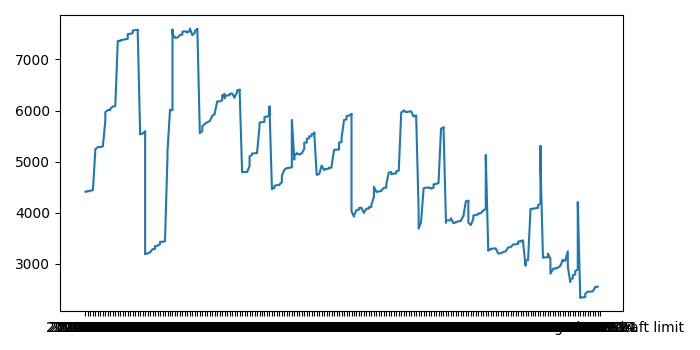
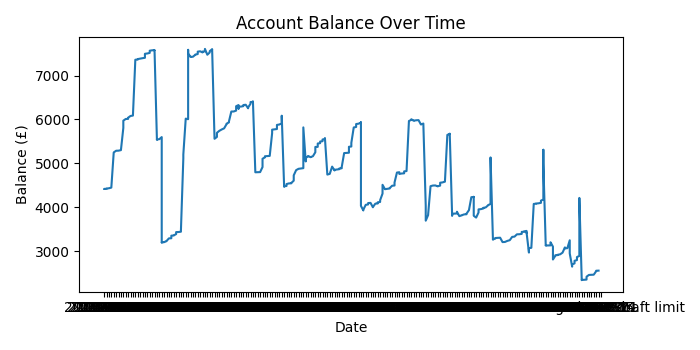
title and axis labels

diff --git a/financier/app.py b/financier/app.py
@@ -3,8 +3,7 @@ import pandas as pd
 
 from financier import PROJECT_ROOT
 
-plt.rcParams["figure.figsize"] = [7.00, 3.50]
-plt.rcParams["figure.autolayout"] = True
+
 columns = ["Date", "Balance"]
 df = pd.read_csv(
     PROJECT_ROOT / "data/account_data.csv", usecols=columns, parse_dates=["Date"]
@@ -12,5 +11,13 @@ df = pd.read_csv(
 
 df["Balance"] = df["Balance"].replace({"£": "", r"\+": ""}, regex=True).astype(float)
 
+
+plt.rcParams["figure.figsize"] = [7.00, 3.50]
+plt.rcParams["figure.autolayout"] = True
+
 plt.plot(df.Date, df.Balance)
+
+plt.title("Account Balance Over Time")
+plt.xlabel("Date")
+plt.ylabel("Balance (£)")
 plt.savefig(PROJECT_ROOT / "output/balance_plot.png")
